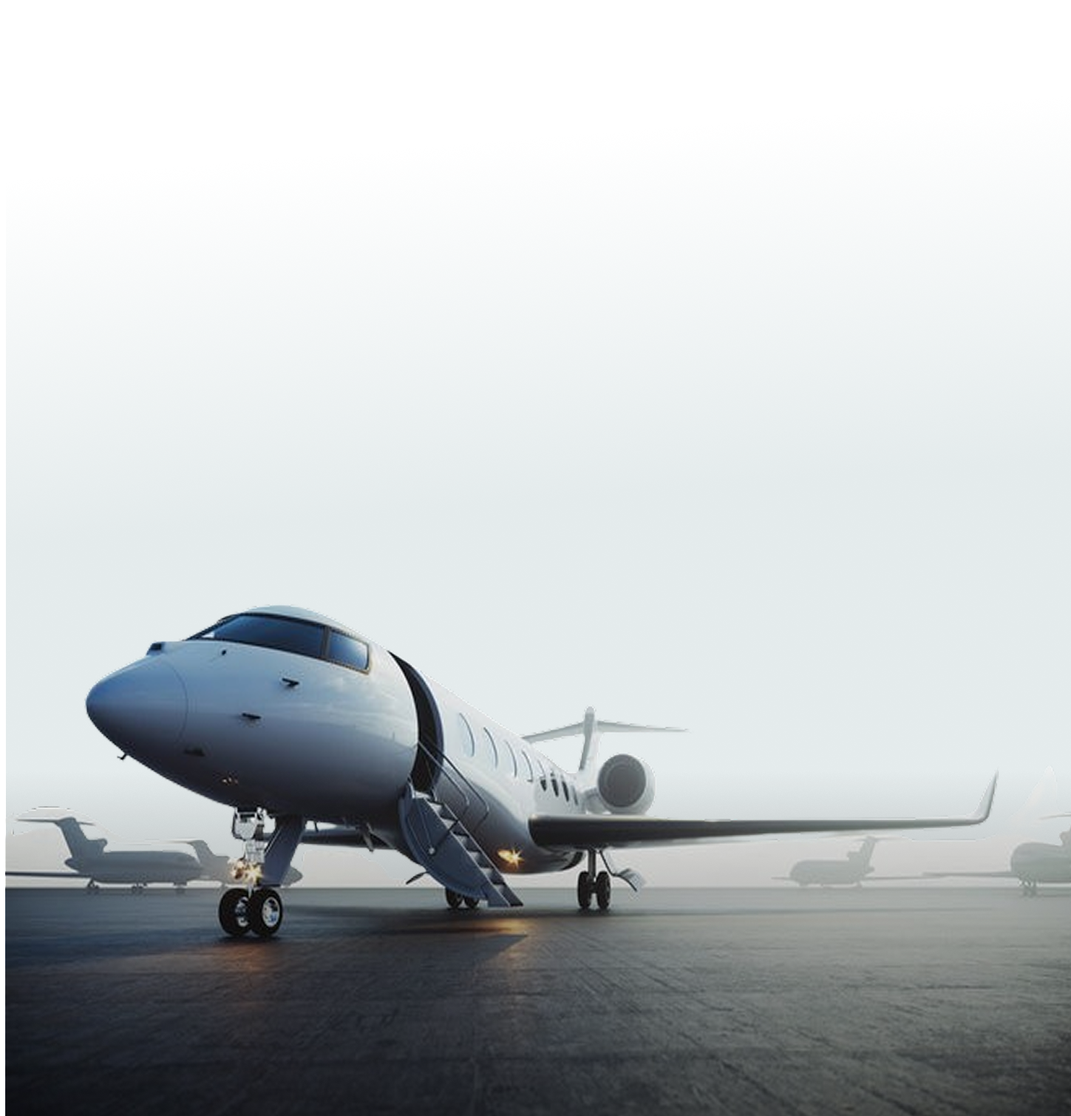
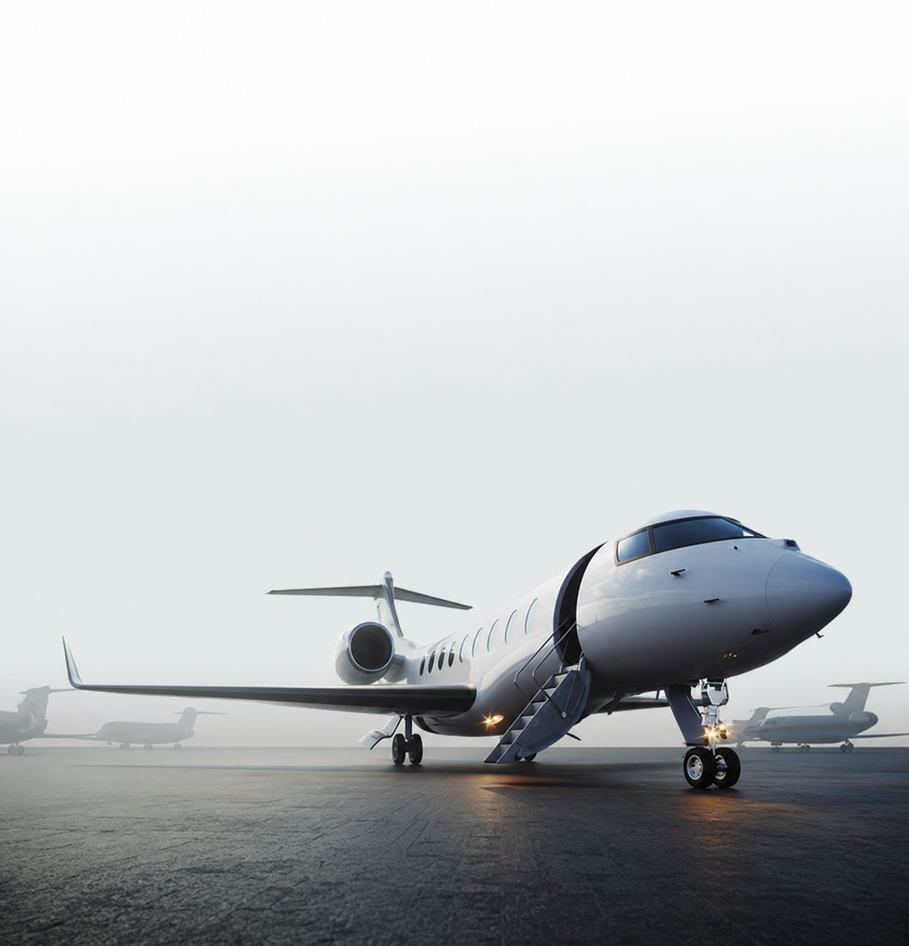
updated the home page

diff --git a/src/components/Home/PopularPackages.jsx b/src/components/Home/PopularPackages.jsx
@@ -2,7 +2,7 @@
 import React, { useState, useEffect, useRef } from 'react';
 import { useRouter } from 'next/navigation';
 import { motion } from 'framer-motion';
-import { ArrowLeft, ArrowRight, Star, Calendar, MapPin, Plane, Utensils, Hotel } from 'lucide-react';
+import { ArrowLeft, ArrowRight, Star, Calendar, MapPin } from 'lucide-react';
 import FavoriteButton from '../common/FavoriteButton';
 import { useCurrency } from '../../context/CurrencyContext';
 
@@ -17,7 +17,7 @@ const PopularPackagesSkeleton = () => (
             </div>
             <div className="flex justify-center gap-6 overflow-hidden">
                 {[1, 2, 3].map(i => (
-                    <div key={i} className="w-[320px] h-[560px] bg-gray-100 rounded-[2rem] flex flex-col">
+                    <div key={i} className="w-[320px] h-[480px] bg-gray-100 rounded-[2rem] flex flex-col">
                         <div className="h-[40%] bg-gray-200" />
                         <div className="p-6 flex-1 flex flex-col justify-between">
                             <div>
@@ -160,7 +160,7 @@ export default function PopularPackages({ packages: apiPackages, content, loadin
                                         scale: 1,
                                         zIndex: isHovered ? 30 : (isActive ? 20 : 10),
                                         opacity: isVisible ? 1 : 0,
-                                        height: 560,
+                                        height: 480,
                                         pointerEvents: (isVisible && mounted) ? "auto" : "none"
                                     }}
                                     transition={{
@@ -179,8 +179,8 @@ export default function PopularPackages({ packages: apiPackages, content, loadin
                                         backgroundColor: isActive ? "#FFFFFF" : "#113A74"
                                     }}
                                 >
-                                    {/* Image Section - 40% of card height */}
-                                    <div className="relative flex-shrink-0 w-full" style={{ height: '224px' }}>
+                                    {/* Image Section */}
+                                     <div className="relative flex-shrink-0 w-full" style={{ height: '180px' }}>
                                         <img src={pkg.image} alt={pkg.title} className="w-full h-full object-cover" />
                                         {/* Duration badge */}
                                         <div className="absolute top-4 left-0 bg-brand-magic text-white py-2 px-4 rounded-r-2xl flex items-center gap-2">
@@ -213,12 +213,12 @@ export default function PopularPackages({ packages: apiPackages, content, loadin
                                             >
                                                 <h3 title={pkg.title} className="text-[22px] font-bold text-white mb-2 line-clamp-1">{pkg.title}</h3>
                                                 <p title={pkg.description} className="text-[12px] text-white/75 leading-relaxed mb-4 line-clamp-4">{pkg.description}</p>
- 
+
                                                 <div className="flex items-center gap-2 mb-auto">
                                                     <Star size={14} fill="#FFA500" className="text-[#FFA500] flex-shrink-0" />
                                                     <span title={pkg.type} className="text-[#FFA500] font-bold text-[13px] line-clamp-1">Tour Type : {pkg.type}</span>
                                                 </div>
- 
+
                                                 <div className="mt-5 flex items-end justify-between">
                                                     <div>
                                                         <span className="text-[#FFA500] text-[22px] font-extrabold leading-none">{formatPrice(pkg.price)}</span>
@@ -232,55 +232,52 @@ export default function PopularPackages({ packages: apiPackages, content, loadin
                                                     </button>
                                                 </div>
                                             </div>
- 
+
                                             {/* Hover white detail panel — slides up on hover */}
                                             <div
-                                                className="absolute -top-8 bottom-0 left-0 right-0 bg-white rounded-t-[2.5rem] p-6 flex flex-col shadow-[0_-4px_20px_rgba(0,0,0,0.08)]"
+                                                className="absolute -top-12 bottom-0 left-0 right-0 bg-white rounded-t-[2.5rem] p-4 flex flex-col shadow-[0_-4px_20px_rgba(0,0,0,0.08)] z-20"
                                                 style={{
                                                     transform: isHovered ? 'translateY(0%)' : 'translateY(100%)',
                                                     opacity: isHovered ? 1 : 0,
                                                     transition: 'transform 0.4s cubic-bezier(0.4,0,0.2,1), opacity 0.3s ease',
                                                 }}
                                             >
-                                                <h3 title={pkg.title} className="text-[22px] font-bold text-[#16243D] mb-1 line-clamp-1">{pkg.title}</h3>
-                                                <p title={pkg.description} className="text-[12px] text-[#6B7280] leading-relaxed mb-4 line-clamp-2">{pkg.description}</p>
+                                                <h3 title={pkg.title} className="text-[18px] font-bold text-[#16243D] mb-1 line-clamp-1">{pkg.title}</h3>
+                                                <p title={pkg.description} className="text-[11px] text-[#6B7280] leading-relaxed mb-1.5 line-clamp-2">{pkg.description}</p>
 
-                                                <div className="bg-[#F7F8FC] rounded-[1.5rem] p-4 mb-5 space-y-3">
-                                                    <div className="flex items-center gap-3">
-                                                        <Star size={16} fill="#FACC15" className="text-[#FACC15] flex-shrink-0" />
-                                                        <span title={pkg.type} className="text-[#16243D] font-semibold text-[13px] line-clamp-1">Tour Type : {pkg.type}</span>
+                                                <div className="bg-[#F7F8FC] rounded-[1.2rem] p-3 mb-2.5 space-y-2">
+                                                    <div className="flex items-center gap-2">
+                                                        <Star size={14} fill="#FACC15" className="text-[#FACC15] flex-shrink-0" />
+                                                        <span title={pkg.type} className="text-[#16243D] font-semibold text-[12px] line-clamp-1">Tour Type : {pkg.type}</span>
                                                     </div>
                                                     <div className="flex flex-wrap gap-y-0.5">
                                                         {pkg.location.split(',').map((loc, i, arr) => (
-                                                            <span key={i} className="text-gray-400 font-semibold text-[13px]">
+                                                            <span key={i} className="text-gray-400 font-semibold text-[11px]">
                                                                 {loc.trim()}{i < arr.length - 1 && <span className="mx-1">|</span>}
                                                             </span>
                                                         ))}
                                                     </div>
                                                     {(pkg.hasFlights || pkg.hasMeals || pkg.hasHotel) && (
-                                                        <div className="flex items-center gap-3 flex-wrap pt-1 border-t border-gray-200 mt-1">
+                                                        <div className="flex items-center gap-3 flex-wrap pt-1 mt-0.5">
                                                             {pkg.hasFlights && (
                                                                 <div className="flex items-center gap-1.5">
-                                                                    <Plane size={14} className="text-[#1A73E8] flex-shrink-0" />
-                                                                    <span className="text-[11px] text-[#16243D] font-semibold">Flight</span>
+                                                                    <img src="/icons/plane.png" alt="Flight" className="w-[18px] h-[18px] object-contain flex-shrink-0" />
                                                                 </div>
                                                             )}
                                                             {pkg.hasMeals && (
                                                                 <div className="flex items-center gap-1.5">
-                                                                    <Utensils size={14} className="text-[#1A73E8] flex-shrink-0" />
-                                                                    <span className="text-[11px] text-[#16243D] font-semibold">Meals</span>
+                                                                    <img src="/icons/meals.png" alt="Meals" className="w-[18px] h-[18px] object-contain flex-shrink-0" />
                                                                 </div>
                                                             )}
                                                             {pkg.hasHotel && (
                                                                 <div className="flex items-center gap-1.5">
-                                                                    <Hotel size={14} className="text-[#1A73E8] flex-shrink-0" />
-                                                                    <span className="text-[11px] text-[#16243D] font-semibold">Hotel</span>
+                                                                    <img src="/icons/hotel.png" alt="Hotel" className="w-[18px] h-[18px] object-contain flex-shrink-0" />
                                                                 </div>
                                                             )}
                                                         </div>
                                                     )}
                                                     <div>
-                                                        <span title={pkg.type} className="inline-block bg-[#FFA500] text-white text-[9px] font-black px-3 py-1 rounded-full uppercase tracking-wider line-clamp-1">
+                                                        <span title={pkg.type} className="inline-block bg-[#FFA500] text-white text-[9px] font-black px-2.5 py-0.5 rounded-full uppercase tracking-wider line-clamp-1">
                                                             {pkg.type}
                                                         </span>
                                                     </div>
@@ -288,12 +285,12 @@ export default function PopularPackages({ packages: apiPackages, content, loadin
 
                                                 <div className="mt-auto flex items-end justify-between">
                                                     <div>
-                                                        <span className="text-[#FFA500] text-[22px] font-extrabold leading-none">{formatPrice(pkg.price)}</span>
-                                                        <span className="block text-[10px] font-bold uppercase text-gray-400 mt-0.5">Onwards</span>
+                                                        <span className="text-[#FFA500] text-[18px] font-extrabold leading-none">{formatPrice(pkg.price)}</span>
+                                                        <span className="block text-[9px] font-bold uppercase text-gray-400 mt-0.5">Onwards</span>
                                                     </div>
                                                     <button
                                                         onClick={(e) => { e.stopPropagation(); router.push(`/packages/${pkg.slug || pkg.id}?book=true`); }}
-                                                        className="px-6 py-3 rounded-full bg-[#113A74] text-white font-bold text-[13px] shadow-lg hover:scale-105 active:scale-95 transition-all whitespace-nowrap"
+                                                        className="px-5 py-2 rounded-full bg-[#113A74] text-white font-bold text-[12px] shadow-lg hover:scale-105 active:scale-95 transition-all whitespace-nowrap"
                                                     >
                                                         Book Now
                                                     </button>
@@ -314,12 +311,12 @@ export default function PopularPackages({ packages: apiPackages, content, loadin
                                             >
                                                 <h3 title={pkg.title} className="text-[22px] font-bold text-white mb-2 line-clamp-1">{pkg.title}</h3>
                                                 <p title={pkg.description} className="text-[12px] text-white/75 leading-relaxed mb-4 line-clamp-4">{pkg.description}</p>
- 
+
                                                 <div className="flex items-center gap-2 mb-auto">
                                                     <Star size={14} fill="#FFA500" className="text-[#FFA500] flex-shrink-0" />
                                                     <span title={pkg.type} className="text-[#FFA500] font-bold text-[13px] line-clamp-1">Tour Type :{pkg.type}</span>
                                                 </div>
- 
+
                                                 <div className="mt-5 flex items-end justify-between">
                                                     <div>
                                                         <span className="text-[#FFA500] text-[22px] font-extrabold leading-none">{formatPrice(pkg.price)}</span>
@@ -339,68 +336,65 @@ export default function PopularPackages({ packages: apiPackages, content, loadin
                                                     </button>
                                                 </div>
                                             </div>
- 
+
                                             {/* Hover white detail panel — slides up on hover */}
                                             <div
-                                                className="absolute -top-8 bottom-0 left-0 right-0 bg-white rounded-t-[2.5rem] p-6 flex flex-col shadow-[0_-4px_20px_rgba(0,0,0,0.08)]"
+                                                className="absolute -top-12 bottom-0 left-0 right-0 bg-white rounded-t-[2.5rem] p-4 flex flex-col shadow-[0_-4px_20px_rgba(0,0,0,0.08)] z-20"
                                                 style={{
                                                     transform: isHovered ? 'translateY(0%)' : 'translateY(100%)',
                                                     opacity: isHovered ? 1 : 0,
                                                     transition: 'transform 0.4s cubic-bezier(0.4,0,0.2,1), opacity 0.3s ease',
                                                 }}
                                             >
-                                                <h3 title={pkg.title} className="text-[22px] font-bold text-[#16243D] mb-1 line-clamp-1">{pkg.title}</h3>
-                                                <p title={pkg.description} className="text-[12px] text-[#6B7280] leading-relaxed mb-4 line-clamp-2">{pkg.description}</p>
- 
-                                                <div className="bg-[#F7F8FC] rounded-[1.5rem] p-4 mb-5 space-y-3">
-                                                    <div className="flex items-center gap-3">
-                                                        <Star size={16} fill="#FACC15" className="text-[#FACC15] flex-shrink-0" />
-                                                        <span title={pkg.type} className="text-[#16243D] font-semibold text-[13px] line-clamp-1">Tour Type : {pkg.type}</span>
+                                                <h3 title={pkg.title} className="text-[18px] font-bold text-[#16243D] mb-1 line-clamp-1">{pkg.title}</h3>
+                                                <p title={pkg.description} className="text-[11px] text-[#6B7280] leading-relaxed mb-1.5 line-clamp-2">{pkg.description}</p>
+
+                                                <div className="bg-[#F7F8FC] rounded-[1.2rem] p-3 mb-2.5 space-y-2">
+                                                    <div className="flex items-center gap-2">
+                                                        <Star size={14} fill="#FACC15" className="text-[#FACC15] flex-shrink-0" />
+                                                        <span title={pkg.type} className="text-[#16243D] font-semibold text-[12px] line-clamp-1">Tour Type : {pkg.type}</span>
                                                     </div>
                                                     <div className="flex flex-wrap gap-y-0.5">
                                                         {pkg.location.split(',').map((loc, i, arr) => (
-                                                            <span key={i} className="text-gray-400 font-semibold text-[13px]">
+                                                            <span key={i} className="text-gray-400 font-semibold text-[11px]">
                                                                 {loc.trim()}{i < arr.length - 1 && <span className="mx-1">|</span>}
                                                             </span>
                                                         ))}
                                                     </div>
                                                     {(pkg.hasFlights || pkg.hasMeals || pkg.hasHotel) && (
-                                                        <div className="flex items-center gap-3 flex-wrap pt-1 border-t border-gray-200 mt-1">
+                                                        <div className="flex items-center gap-3 flex-wrap pt-1 mt-0.5">
                                                             {pkg.hasFlights && (
                                                                 <div className="flex items-center gap-1.5">
-                                                                    <Plane size={14} className="text-[#1A73E8] flex-shrink-0" />
-                                                                    <span className="text-[11px] text-[#16243D] font-semibold">Flight</span>
+                                                                    <img src="/icons/plane.png" alt="Flight" className="w-[18px] h-[18px] object-contain flex-shrink-0" />
                                                                 </div>
                                                             )}
                                                             {pkg.hasMeals && (
                                                                 <div className="flex items-center gap-1.5">
-                                                                    <Utensils size={14} className="text-[#1A73E8] flex-shrink-0" />
-                                                                    <span className="text-[11px] text-[#16243D] font-semibold">Meals</span>
+                                                                    <img src="/icons/meals.png" alt="Meals" className="w-[18px] h-[18px] object-contain flex-shrink-0" />
                                                                 </div>
                                                             )}
                                                             {pkg.hasHotel && (
                                                                 <div className="flex items-center gap-1.5">
-                                                                    <Hotel size={14} className="text-[#1A73E8] flex-shrink-0" />
-                                                                    <span className="text-[11px] text-[#16243D] font-semibold">Hotel</span>
+                                                                    <img src="/icons/hotel.png" alt="Hotel" className="w-[18px] h-[18px] object-contain flex-shrink-0" />
                                                                 </div>
                                                             )}
                                                         </div>
                                                     )}
                                                     <div>
-                                                        <span title={pkg.type} className="inline-block bg-[#FFA500] text-white text-[9px] font-black px-3 py-1 rounded-full uppercase tracking-wider line-clamp-1">
+                                                        <span title={pkg.type} className="inline-block bg-[#FFA500] text-white text-[9px] font-black px-2.5 py-0.5 rounded-full uppercase tracking-wider line-clamp-1">
                                                             {pkg.type}
                                                         </span>
                                                     </div>
                                                 </div>
- 
+
                                                 <div className="mt-auto flex items-end justify-between">
                                                     <div>
-                                                        <span className="text-[#FFA500] text-[22px] font-extrabold leading-none">{formatPrice(pkg.price)}</span>
-                                                        <span className="block text-[10px] font-bold uppercase text-gray-400 mt-0.5">Onwards</span>
+                                                        <span className="text-[#FFA500] text-[18px] font-extrabold leading-none">{formatPrice(pkg.price)}</span>
+                                                        <span className="block text-[9px] font-bold uppercase text-gray-400 mt-0.5">Onwards</span>
                                                     </div>
                                                     <button
                                                         onClick={(e) => { e.stopPropagation(); router.push(`/packages/${pkg.slug || pkg.id}?book=true`); }}
-                                                        className="px-6 py-3 rounded-full bg-[#113A74] text-white font-bold text-[13px] shadow-lg hover:scale-105 active:scale-95 transition-all whitespace-nowrap"
+                                                        className="px-5 py-2 rounded-full bg-[#113A74] text-white font-bold text-[12px] shadow-lg hover:scale-105 active:scale-95 transition-all whitespace-nowrap"
                                                     >
                                                         Book Now
                                                     </button>

diff --git a/src/components/Home/PrivateJet.jsx b/src/components/Home/PrivateJet.jsx
@@ -155,7 +155,7 @@ const PrivateJet = ({ jets: apiJets, content, loading }) => {
                     </div>
 
                     {/* Right Side - Mini Slider */}
-                    <div className="w-full sm:w-[340px] md:w-[380px] lg:w-[360px] xl:w-[400px] shrink-0 self-start">
+                    <div className="w-full sm:w-[340px] md:w-[380px] lg:w-[360px] xl:w-[400px] shrink-0 self-start lg:mt-24 mt-12">
                         <div className="rounded-2xl sm:rounded-3xl overflow-hidden shadow-xl relative">
                             {/* Slider Image */}
                             <div className="relative aspect-[4/3] overflow-hidden">
@@ -178,29 +178,26 @@ const PrivateJet = ({ jets: apiJets, content, loading }) => {
                                 </div>
 
                                 {/* Bottom overlay with title */}
-                                <div className="absolute bottom-4 left-4 right-4 z-10">
-                                    <div className="bg-black/30 backdrop-blur-xl rounded-2xl px-5 py-4 sm:px-6 sm:py-5">
-                                        <AnimatePresence mode="wait">
-                                            <motion.div
-                                                key={slides[currentSlide].id}
-                                                initial={{ opacity: 0, y: 10 }}
-                                                animate={{ opacity: 1, y: 0 }}
-                                                exit={{ opacity: 0, y: -10 }}
-                                                transition={{ duration: 0.4 }}
-                                            >
-                                                <div className="flex items-center gap-2.5">
-                                                    <div className="w-8 h-8 rounded-full bg-white flex items-center justify-center shrink-0 shadow-sm">
-                                                        <svg className="text-brand-magic" width="16" height="16" viewBox="0 0 24 24" fill="currentColor">
-                                                            <path d="M21 16v-2l-8-5V3.5c0-.83-.67-1.5-1.5-1.5S10 2.67 10 3.5V9l-8 5v2l8-2.5V19l-2 1.5V22l3.5-1 3.5 1v-1.5L13 19v-5.5l8 2.5z" transform="rotate(45 12 12)" />
-                                                        </svg>
-                                                    </div>
-                                                    <h3 className="text-white text-lg sm:text-xl font-bold">
-                                                        {slides[currentSlide].title}
-                                                    </h3>
-                                                </div>
-                                            </motion.div>
-                                        </AnimatePresence>
-                                    </div>
+                                <div className="absolute bottom-4 left-4 z-10">
+                                    <AnimatePresence mode="wait">
+                                        <motion.div
+                                            key={slides[currentSlide].id}
+                                            initial={{ opacity: 0, y: 10 }}
+                                            animate={{ opacity: 1, y: 0 }}
+                                            exit={{ opacity: 0, y: -10 }}
+                                            transition={{ duration: 0.4 }}
+                                            className="bg-[#c2bcbb]/80 backdrop-blur-md py-2.5 pr-6 pl-2.5 rounded-2xl flex items-center gap-3 shadow-md"
+                                        >
+                                            <div className="w-8 h-8 rounded-full bg-white flex items-center justify-center shrink-0 shadow-sm">
+                                                <svg className="text-[#113A74]" width="16" height="16" viewBox="0 0 24 24" fill="currentColor">
+                                                    <path d="M21 16v-2l-8-5V3.5c0-.83-.67-1.5-1.5-1.5S10 2.67 10 3.5V9l-8 5v2l8-2.5V19l-2 1.5V22l3.5-1 3.5 1v-1.5L13 19v-5.5l8 2.5z" transform="rotate(45 12 12)" />
+                                                </svg>
+                                            </div>
+                                            <h3 className="text-white text-[16px] sm:text-[18px] font-serif font-medium leading-none">
+                                                {slides[currentSlide].title ? slides[currentSlide].title.split(' ')[0] : ''}
+                                            </h3>
+                                        </motion.div>
+                                    </AnimatePresence>
                                 </div>
                             </div>
                         </div>

diff --git a/src/components/Home/Destinations.jsx b/src/components/Home/Destinations.jsx
@@ -35,13 +35,13 @@ const tripCategories = [
 ];
 
 export default function Destinations({ content, loading }) {
-    const subtitle    = content?.subtitle    || "Trips List";
-    const line1       = content?.line1       || "Explore the Trips";
-    const highlight   = content?.highlight   || "Places";
-    const line2       = content?.line2;
+    const subtitle = content?.subtitle || "Trips List";
+    const line1 = content?.line1 || "Explore the Trips";
+    const highlight = content?.highlight || "Places";
+    const line2 = content?.line2;
     const description = content?.description || "Discover curated travel experiences and breathtaking destinations across the globe. From luxury cruises to private jet charters, we make your dream journey a reality.";
-    const buttonText  = content?.button_text || "Discover More Destinations";
-    const buttonLink  = content?.button_link || "/destinations";
+    const buttonText = content?.button_text || "Discover More Destinations";
+    const buttonLink = content?.button_link || "/destinations";
 
     /* ── skeleton ── */
     if (loading) {
@@ -82,7 +82,7 @@ export default function Destinations({ content, loading }) {
 
                     {/* ── Left: text ── */}
                     <div className="xl:w-[420px] xl:shrink-0 text-left pr-4 xl:pr-0">
-                        <div className="inline-flex items-center gap-3 bg-[#F2F5FF] px-6 py-3 rounded-full mb-5 shadow-sm">
+                        <div className="inline-flex items-center gap-3 bg-white px-6 py-3 rounded-full mb-5">
                             <svg className="text-brand-magic" width="18" height="18" viewBox="0 0 24 24" fill="currentColor">
                                 <path d="M21 16v-2l-8-5V3.5c0-.83-.67-1.5-1.5-1.5S10 2.67 10 3.5V9l-8 5v2l8-2.5V19l-2 1.5V22l3.5-1 3.5 1v-1.5L13 19v-5.5l8 2.5z" transform="rotate(45 12 12)" />
                             </svg>
@@ -109,7 +109,6 @@ export default function Destinations({ content, loading }) {
                         </Link>
                     </div>
 
-                    {/* ── Right: cards scroll to viewport right edge ── */}
                     <div className="flex-1 min-w-0 overflow-hidden">
                         <style>{`
                             @keyframes destinations-scroll {
@@ -117,7 +116,7 @@ export default function Destinations({ content, loading }) {
                                 100% { transform: translateX(-50%); }
                             }
                             .destinations-track {
-                                animation: destinations-scroll 14s linear infinite;
+                                animation: destinations-scroll 30s linear infinite;
                                 will-change: transform;
                             }
                             .destinations-track:hover {
@@ -139,8 +138,8 @@ export default function Destinations({ content, loading }) {
                                       image AND the text section with the same colour on hover.
                                     */}
                                     <div
-                                        className="bg-white group-hover:bg-brand-magic flex flex-col transition-colors duration-500 rounded-t-[2.2rem] rounded-bl-[2.2rem] overflow-hidden shadow-[0_4px_20px_rgba(0,0,0,0.09)]"
-                                        style={{ width: '248.37px', height: '348.82px' }}
+                                        className="bg-white group-hover:bg-brand-magic flex flex-col transition-colors duration-500 rounded-t-[2.2rem] rounded-bl-[2.2rem] overflow-hidden"
+                                        style={{ width: '210px', height: '295px' }}
                                     >
                                         {/* Image — fully rounded (top 2.2rem, bottom 1.8rem) */}
                                         <div
